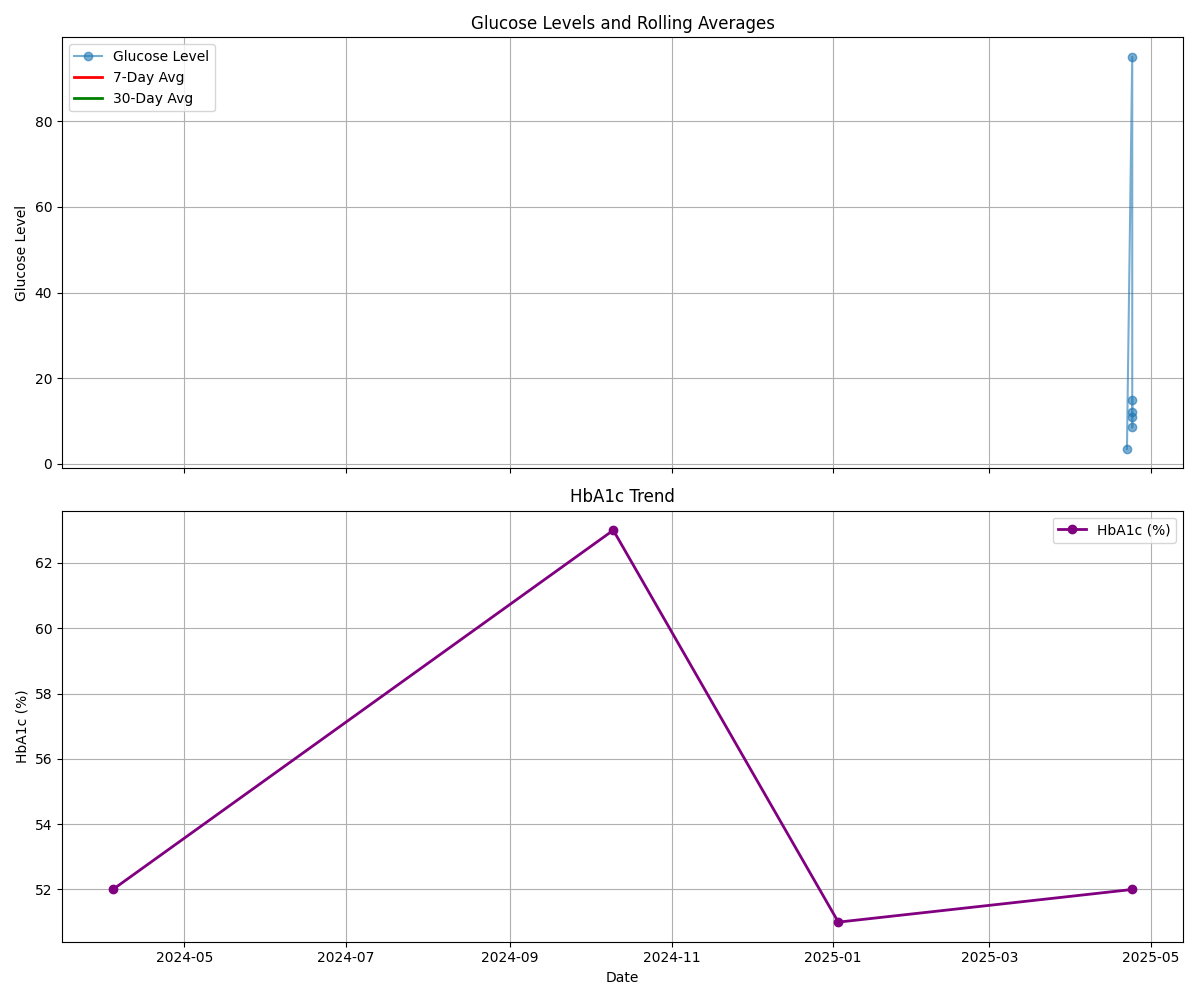
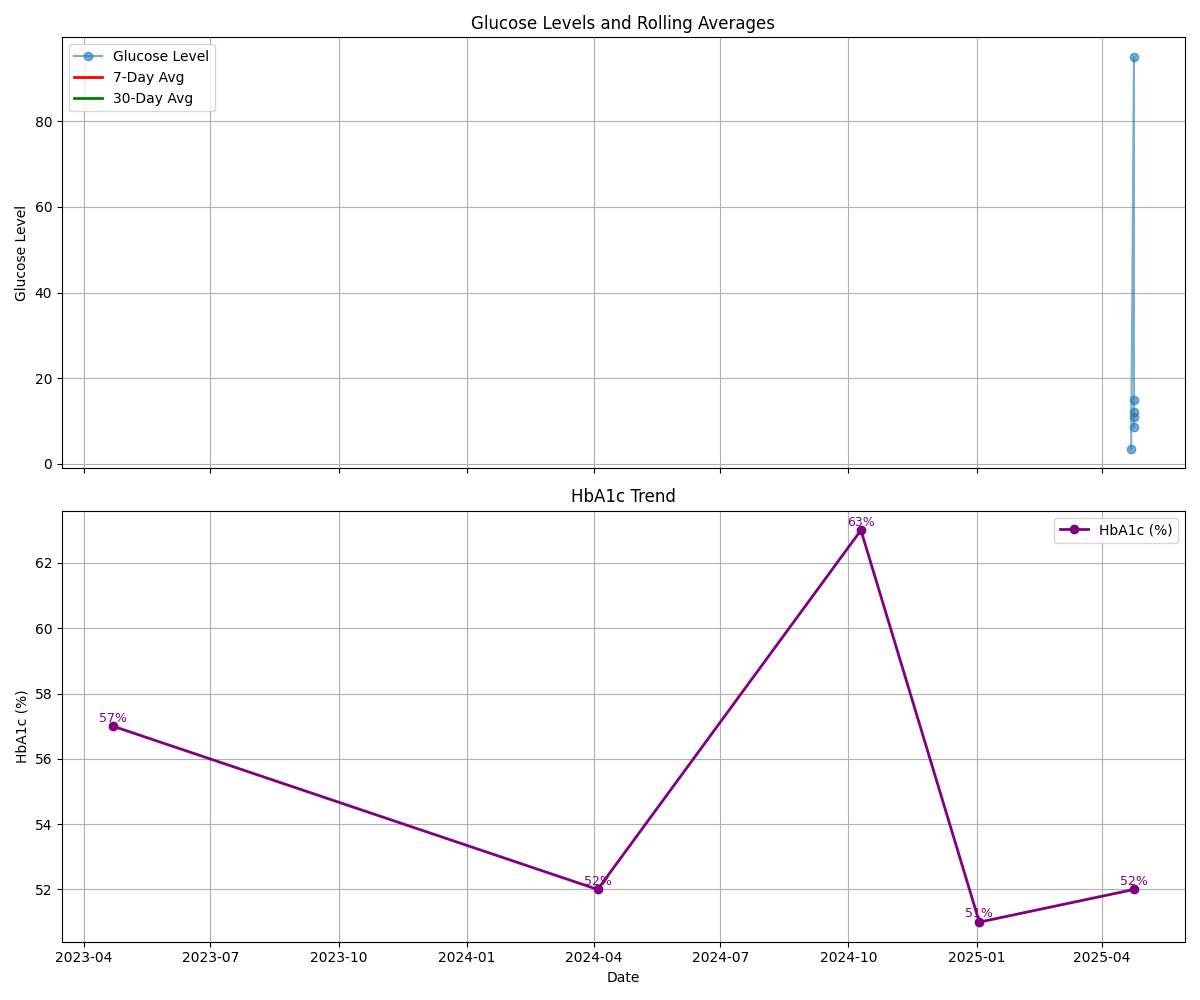
Updated HbA1c formating in csv output

diff --git a/utils.py b/utils.py
@@ -205,8 +205,13 @@ def plot_combined_trend():
     ax1.grid(True)
     ax1.legend()
 
-    # HbA1c plot
+   # HbA1c plot
     ax2.plot(hba1c_df["date"], hba1c_df["hba1c"], label="HbA1c (%)", marker='o', color='purple', linewidth=2)
+
+# Add labels above each point
+    for i, row in hba1c_df.iterrows():
+        ax2.text(row["date"], row["hba1c"] + 0.05, f"{row['hba1c']}%", ha='center', va='bottom', fontsize=9, color='purple')
+
     ax2.set_title("HbA1c Trend")
     ax2.set_ylabel("HbA1c (%)")
     ax2.set_xlabel("Date")
@@ -223,11 +228,13 @@ def add_hba1c_reading(date_str, hba1c_value):
         date_str = str(date_str).strip()
         parsed_date = datetime.strptime(date_str, "%d/%m/%Y").strftime("%d/%m/%Y")
         hba1c_value = float(hba1c_value)
+        # Format value to remove .0 if it's a whole number
+        hba1c_str = str(int(hba1c_value)) if hba1c_value.is_integer() else str(hba1c_value)
     except (ValueError, TypeError):
         print("Invalid date or HbA1c value.")
         return
 
     with open("hba1c_readings.csv", mode="a", newline="") as file:
         writer = csv.writer(file)
-        writer.writerow([parsed_date, hba1c_value])
+        writer.writerow([parsed_date, hba1c_str])
     print("HbA1c reading added successfully.")
